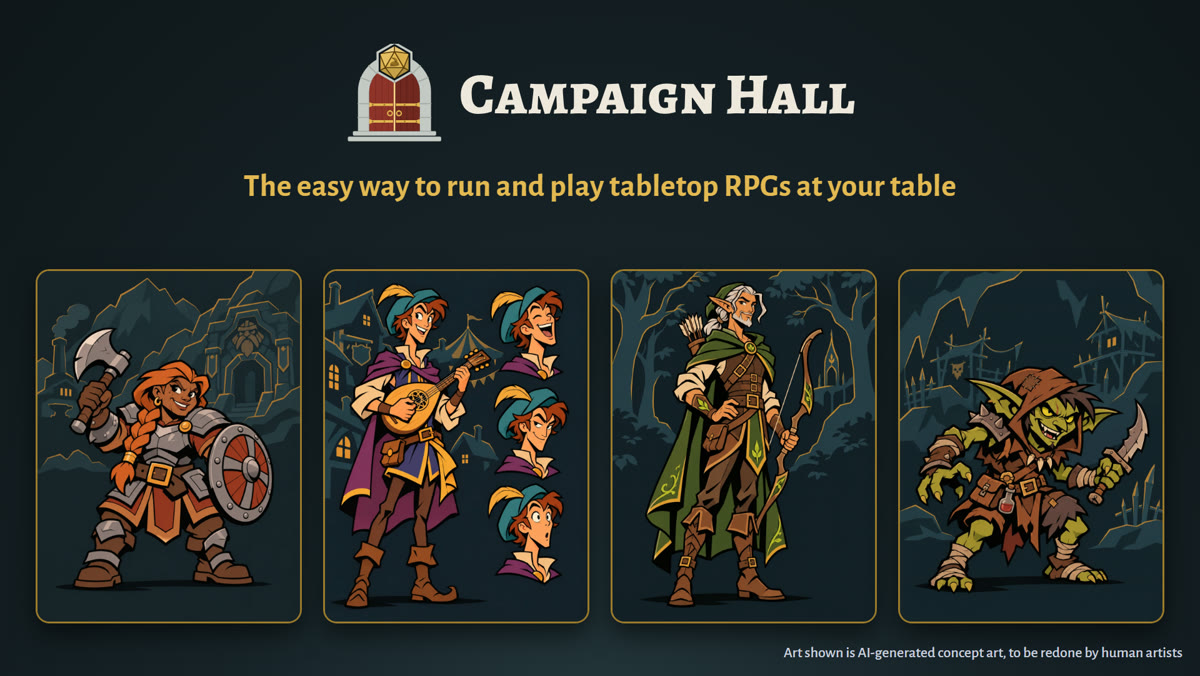
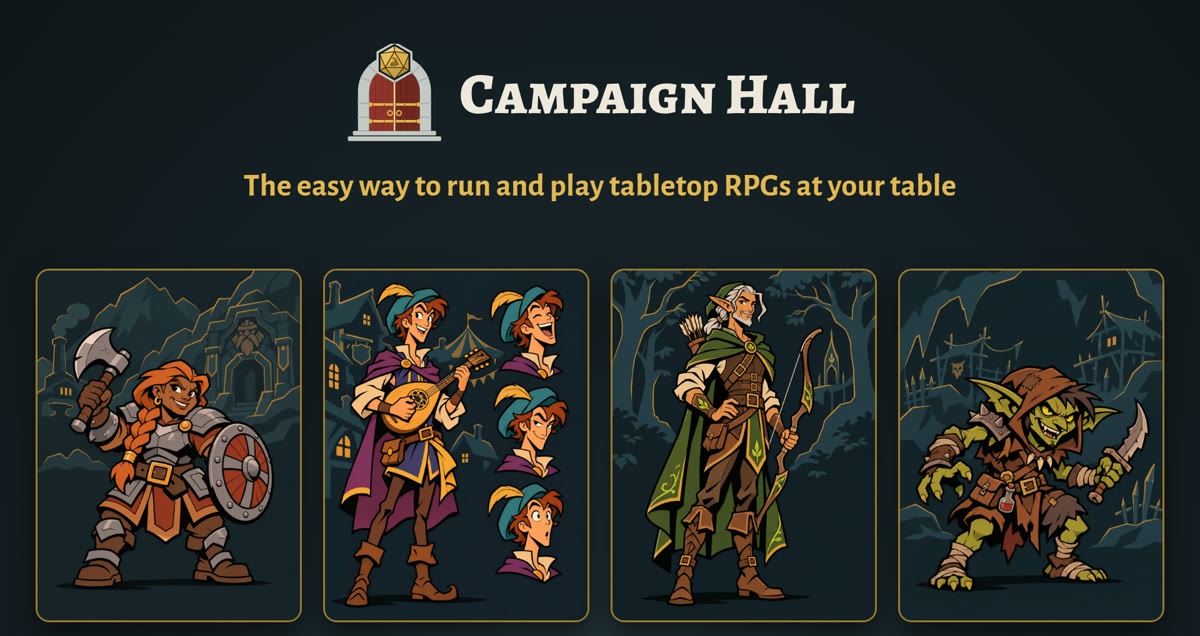
Reword the concept-art line (owner)
'Early concept art. The final art will be made by professional artists,
funded by our Kickstarter.' once per page; image alts no longer repeat
it; link-preview image trimmed of the old caption.

diff --git a/campaign-hall/features/index.html b/campaign-hall/features/index.html
@@ -13,8 +13,8 @@
 <meta property="og:url" content="https://redanvildigital.com/campaign-hall/features/">
 <meta property="og:image" content="https://redanvildigital.com/assets/campaign-hall-share.jpg">
 <meta property="og:image:width" content="1200">
-<meta property="og:image:height" content="675">
-<meta property="og:image:alt" content="Campaign Hall logo and tagline over four concept-art characters">
+<meta property="og:image:height" content="636">
+<meta property="og:image:alt" content="Campaign Hall logo and tagline over four early concept-art characters">
 <meta name="twitter:card" content="summary_large_image">
 <meta name="theme-color" content="#101213">
 <link rel="icon" href="/favicon.ico" sizes="any">
@@ -159,9 +159,9 @@
         <li><span class="soon">Coming</span><strong>Plan my turn.</strong><span>Line up your next move while everyone else takes theirs, so your turn is quick.</span></li>
         <li><span class="soon">Coming</span><strong>Catch up on a missed session.</strong><span>Missed game night? See what happened while you were away before you sit back down.</span></li>
         <li><span class="soon">Coming</span><strong>The Ember Road.</strong><span>A ready-to-run practice adventure, with battle maps, so new GMs and players can learn the ropes together.</span></li>
-        <li><span class="soon">Coming</span><strong>Art by human artists.</strong><span>The art in Campaign Hall today is AI-generated concept art, to be redone by human artists. Part of what we raise on Kickstarter pays for them.</span></li>
+        <li><span class="soon">Coming</span><strong>Art by professional artists.</strong><span>Early concept art. The final art will be made by professional artists, funded by our Kickstarter.</span></li>
         <li><span class="soon">Coming</span><strong>Beyond the US.</strong><span>Campaign Hall launches in the US first. Other countries follow after legal checks.</span></li>
-        <li class="ch-stretch"><span class="soon">If funded</span><strong>Kickstarter stretch goals.</strong><span>If the Kickstarter reaches its stretch goals: a Family Safety Review of kids' seats, so kids' seats get a careful safety and privacy check; <em>The Bard comes to life</em> (animated, by a human artist); more art by human artists; and translation.</span></li>
+        <li class="ch-stretch"><span class="soon">If funded</span><strong>Kickstarter stretch goals.</strong><span>If the Kickstarter reaches its stretch goals: a Family Safety Review of kids' seats, so kids' seats get a careful safety and privacy check; <em>The Bard comes to life</em> (animated, by a professional artist); more art by professional artists; and translation.</span></li>
       </ul>
     </div>
   </section>
@@ -189,7 +189,7 @@
       <p class="ch-ask">Questions, press, or Kickstarter? <a href="mailto:info@redanvildigital.com?subject=Campaign%20Hall">info@redanvildigital.com</a></p>
     </div>
   </section>
-  <div class="wrap"><p class="shot-note">Screenshots are from the app in testing. Character portraits and artwork are AI-generated concept art, to be redone by human artists.</p></div>
+  <div class="wrap"><p class="shot-note">Screenshots are from the app in testing.</p></div>
 </main>
 <footer class="site-footer">
   <div class="wrap">

diff --git a/index.html b/index.html
@@ -85,15 +85,15 @@
       </div>
 
       <div class="hall-art">
-        <img src="/assets/ch-dwarf-fighter.webp" width="520" height="693" loading="lazy" alt="Concept art: a dwarf fighter with an axe and shield">
-        <img src="/assets/ch-bard.webp" width="520" height="693" loading="lazy" alt="Concept art: the Bard, holding a lute">
-        <img src="/assets/ch-elf.webp" width="520" height="693" loading="lazy" alt="Concept art: an elf ranger with a longbow">
-        <img src="/assets/ch-goblin.webp" width="520" height="693" loading="lazy" alt="Concept art: a goblin with a curved knife">
+        <img src="/assets/ch-dwarf-fighter.webp" width="520" height="693" loading="lazy" alt="A dwarf fighter with an axe and shield">
+        <img src="/assets/ch-bard.webp" width="520" height="693" loading="lazy" alt="The Bard, holding a lute">
+        <img src="/assets/ch-elf.webp" width="520" height="693" loading="lazy" alt="An elf ranger with a longbow">
+        <img src="/assets/ch-goblin.webp" width="520" height="693" loading="lazy" alt="A goblin with a curved knife">
       </div>
-      <p class="art-note">Art shown is AI-generated concept art, to be redone by human artists.</p>
+      <p class="art-note">Early concept art. The final art will be made by professional artists, funded by our Kickstarter.</p>
 
       <div class="hall-bottom">
-        <p><strong>Free for players, always.</strong> Campaign Hall opens in the US first. Other countries follow after legal checks. It's coming to Kickstarter in early 2027, to pay for what a small app needs before it opens to everyone, including human artists. If it reaches its stretch goals, that includes a Family Safety Review of kids' seats.</p>
+        <p><strong>Free for players, always.</strong> Campaign Hall opens in the US first. Other countries follow after legal checks. It's coming to Kickstarter in early 2027, to pay for what a small app needs before it opens to everyone, including professional artists for the final art. If it reaches its stretch goals, that includes a Family Safety Review of kids' seats.</p>
         <a class="btn btn-gold" href="/campaign-hall/">Explore Campaign Hall</a>
       </div>
       <div class="hall-follow">

diff --git a/campaign-hall/index.html b/campaign-hall/index.html
@@ -13,8 +13,8 @@
 <meta property="og:url" content="https://redanvildigital.com/campaign-hall/">
 <meta property="og:image" content="https://redanvildigital.com/assets/campaign-hall-share.jpg">
 <meta property="og:image:width" content="1200">
-<meta property="og:image:height" content="675">
-<meta property="og:image:alt" content="Campaign Hall logo and tagline over four concept-art characters">
+<meta property="og:image:height" content="636">
+<meta property="og:image:alt" content="Campaign Hall logo and tagline over four early concept-art characters">
 <meta name="twitter:card" content="summary_large_image">
 <meta name="theme-color" content="#101213">
 <link rel="icon" href="/favicon.ico" sizes="any">
@@ -83,7 +83,7 @@
         <h2 id="ks-title">Free for players, always.</h2>
       </div>
       <div class="ch-body">
-        <p>Campaign Hall comes to Kickstarter in early 2027. Backing it pays for what a small app needs before it opens to everyone. The art you see today is AI-generated concept art, to be redone by human artists, and part of what we raise pays for them.</p>
+        <p>Campaign Hall comes to Kickstarter in early 2027. Backing it pays for what a small app needs before it opens to everyone.</p>
         <p>Before then, a closed beta opens for game masters. Campaign Hall launches in the US first. Other countries follow after legal checks.</p>
       </div>
     </div>
@@ -99,7 +99,7 @@
       <p class="ch-ask">Questions, press, or Kickstarter? <a href="mailto:info@redanvildigital.com?subject=Campaign%20Hall">info@redanvildigital.com</a></p>
     </div>
   </section>
-  <div class="wrap"><p class="shot-note">Screenshots are from the app in testing. Character portraits and artwork are AI-generated concept art, to be redone by human artists.</p></div>
+  <div class="wrap"><p class="shot-note">Screenshots are from the app in testing. Early concept art. The final art will be made by professional artists, funded by our Kickstarter.</p></div>
 </main>
 <footer class="site-footer">
   <div class="wrap">
